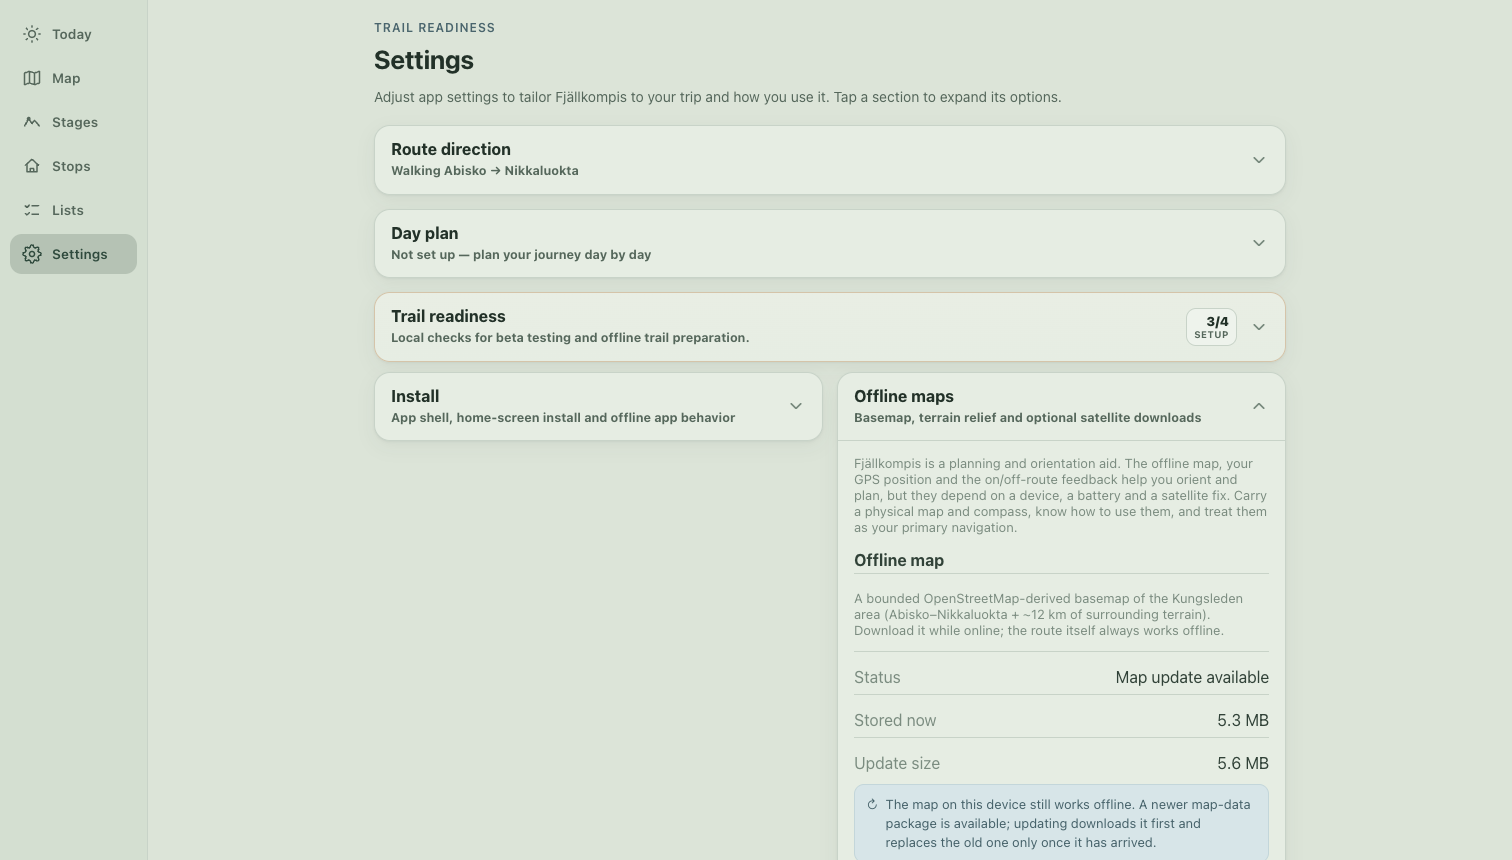
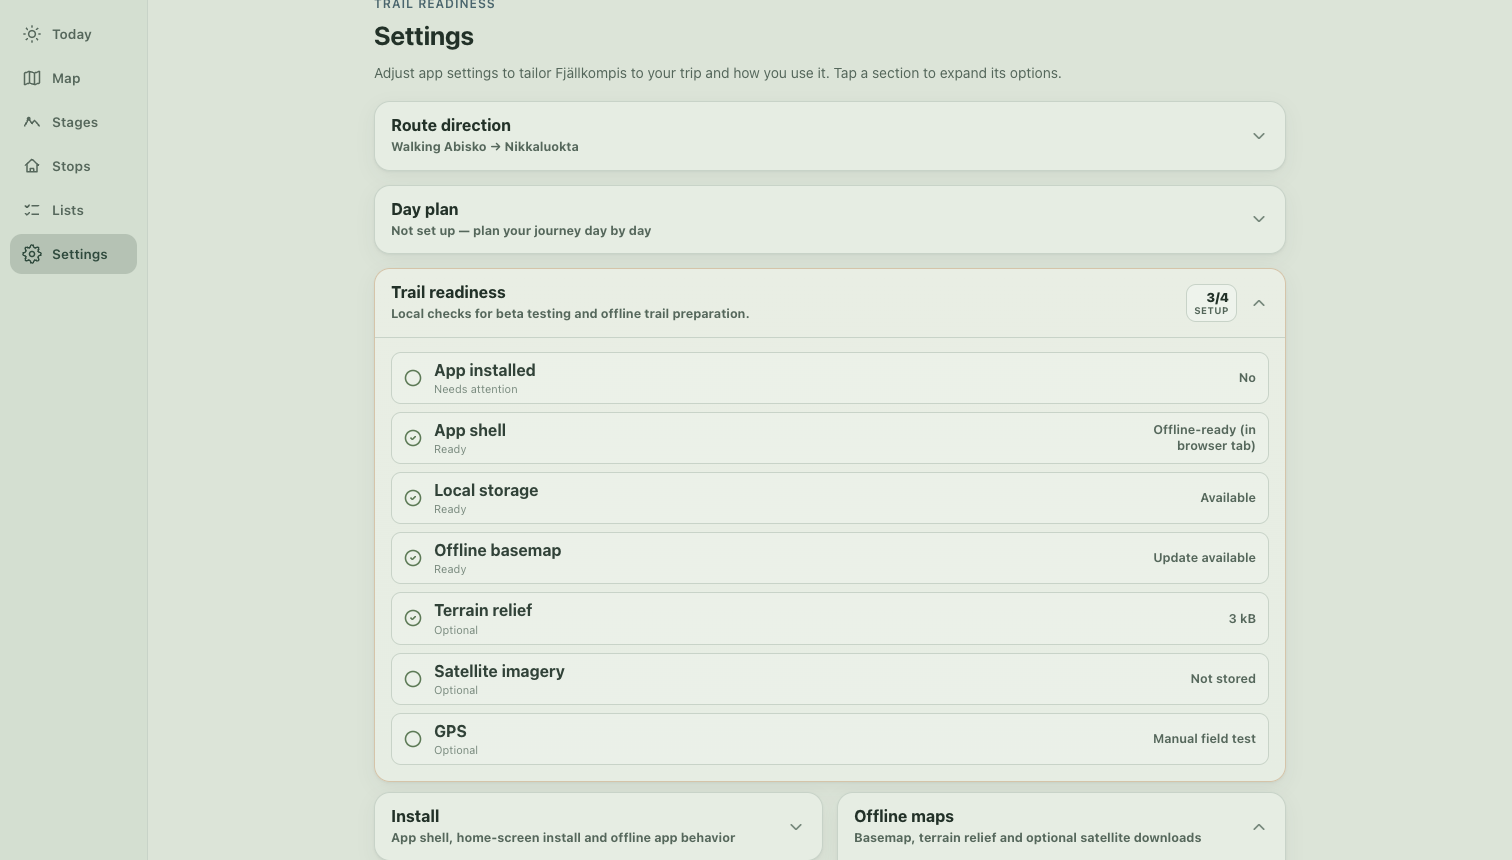
Record the corrected state model and the invalid/remove runtime evidence
Rewrites the evidence note: a wrong-size entry in the current cache is no
longer described as a usable legacy archive. Adds scenario E (a deliberately
seeded 1,234-byte current-cache entry, alone and alongside a valid v1) and
scenario F (remove, from a legacy-only install and from a current install,
asserted against cache inventories).

diff --git a/docs/pr-evidence/2026-08-map-refinement-ii/vector-archive-revision/README.md b/docs/pr-evidence/2026-08-map-refinement-ii/vector-archive-revision/README.md
@@ -27,7 +27,8 @@ Two smaller findings, both measured here rather than reasoned about:
 - **`caches.open()` creates a missing cache.** A status probe against a new
   cache name would have conjured an empty `…-map-v2` on every device that
   merely opened Settings — an inventory entry that reads like a stored
-  archive. The probe now asks `has()` first.
+  archive. The probe now asks `has()` first, and removal deletes caches by
+  **name** rather than opening one to delete an entry inside it (see F below).
 - **`cache: 'no-store'` does not get past a service worker.** The Workbox
   `CacheFirst` route matches the bare archive path, so a download request was
   answered from Cache Storage without reaching the server. Measured: with a
@@ -50,19 +51,38 @@ VECTOR_ARCHIVE_REVISION       { id: 'kungsleden-vector-2026-08-overview-corridor
 ```
 
 A cached response is **current** only if it is in the current cache *and* its
-byte length equals `bytes`. Anything else that exists is **legacy**: usable
-offline, explicitly not current, replaced only by a successful download.
-`sha256` is recorded provenance, checked against the committed file in tests,
-never computed at runtime.
+byte length equals `bytes`. `sha256` is recorded provenance, checked against
+the committed file in tests, never computed at runtime.
+
+"Not current" then splits in two, and the difference is the whole point:
+
+| state | what it is | `downloaded` | blob handed to PMTiles |
+| --- | --- | --- | --- |
+| `current` | exact-size entry in `…-map-v2` | ✅ | v2 |
+| `legacy` | a real entry in declared `…-map-v1` — a revision we shipped, so it parses | ✅ | v1 |
+| `invalid` | a wrong-size entry in `…-map-v2`, no legacy to fall back on | ❌ | **none** |
+| `absent` | nothing cached | ❌ | none |
+
+An arbitrary wrong-size response in the current cache is **not** a usable
+legacy map. Nothing vouches for those bytes — truncated, damaged or seeded by
+hand — and handing them to PMTiles would crash the map. So `invalid` reports
+`downloaded: false`, resolves to a null cache so `getArchiveBlob()` returns
+null, and Settings calls it what it is.
+
+Precedence when both exist: a declared legacy archive **beats** an invalid
+current entry. A device holding a 1,234-byte v2 alongside a valid v1 keeps
+working from v1 and is offered the replacement as an ordinary update; the
+invalid blob is never read.
 
 Terrain, contours and satellite declare no revision and no legacy caches, so
-their status stays existence-only and their cache identities are untouched.
+their status stays existence-only, `invalid` cannot occur for them, and their
+cache identities are untouched.
 
 ## Runtime evidence
 
-Real Chrome, one **disposable profile per scenario**, headless, against
-`vite preview` on this branch's production build. Reproduce with
-`capture-runtime-evidence.mjs`; full output in `runtime-evidence.json`.
+Real Chrome, one **disposable profile per scenario** (A–F, six profiles),
+headless, against `vite preview` on this branch's production build. Reproduce
+with `capture-runtime-evidence.mjs`; full output in `runtime-evidence.json`.
 
 ### A. Simulated pre-PR #104 install
 
@@ -78,6 +98,7 @@ sentinel entries in the terrain, contour and satellite caches.
 | basemap source | `blob:` — **zero** requests for `maps/kungsleden.pmtiles` |
 | anything deleted by opening the app | ❌ none — inventory byte-identical |
 | empty current-revision cache conjured | ❌ none |
+| readiness row | `Offline basemap ǀ Ready ǀ Update available` — ready, not up to date |
 | console errors | 0 |
 
 `A-legacy-settings-1512x860.png`, `A-legacy-map-1512x860.png`
@@ -122,6 +143,63 @@ Desktop 1512×860 and phone 390×844. Both download straight into
 
 `D-fresh-desktop-{before,after}-1512x860.png`,
 `D-fresh-phone-{before,after}-390x844.png`
+
+### E. A deliberately corrupt 1,234-byte entry in the current cache
+
+Seeded straight into `fjallkompis-offline-map-v2` under the archive URL — the
+shape a truncated write or a hand-seeded blob would take.
+
+**E1 — corrupt entry alone.** The proof that matters is what the Map did *not*
+do:
+
+| check | result |
+| --- | --- |
+| PMTiles parse errors ("wrong magic number") | **0** — the blob was never opened |
+| console errors | **0** |
+| what the Map used instead | the online range path — 7 × `206 maps/kungsleden.pmtiles` |
+| Settings status | `Map data needs repair` |
+| sizes shown | `Stored now 1 kB` · `Expected size 5.6 MB` |
+| action offered | `Download map data again` (+ `Remove from device`) |
+| described as stored/working anywhere | ❌ never |
+| readiness row | `Offline basemap ǀ Needs attention ǀ Needs repair` (unchecked — the score drops, honestly) |
+| anything deleted by opening the app | ❌ none; the 1,234 bytes are still there, just unused |
+
+**E2 — the same corrupt entry, plus a valid v1.** The legacy archive wins:
+
+| check | result |
+| --- | --- |
+| Settings status | `Map update available` — not "needs repair" |
+| readiness row | `Offline basemap ǀ Ready ǀ Update available` |
+| basemap source | the v1 blob; the 1,234-byte v2 entry is still present and still unread |
+| PMTiles parse errors | **0** |
+
+`E1-invalid-settings-1512x860.png`, `E1-invalid-map-1512x860.png`,
+`E2-invalid-plus-legacy-settings-1512x860.png`,
+`E2-invalid-plus-legacy-map-1512x860.png`
+
+### F. Remove — cache inventories, not just entries
+
+**F1 — removing a legacy-only install.** The regression this fixes: removal
+used to `open()` the current cache unconditionally, which *creates* it.
+
+```
+before  map-v1 · terrain-v1 · contours-v1 · satellite-v1 · workbox-precache
+after   terrain-v1 · contours-v1 · satellite-v1 · workbox-precache
+```
+
+No `fjallkompis-offline-map-v1`, and **no empty `fjallkompis-offline-map-v2`**.
+
+**F2 — download the current revision, then remove it.**
+
+```
+after download  map-v2 (5 904 598) · terrain-v1 · contours-v1 · satellite-v1 · workbox-precache
+after remove    terrain-v1 · contours-v1 · satellite-v1 · workbox-precache
+```
+
+Terrain, contour and satellite caches survive both removals untouched;
+0 console errors.
+
+`F1-after-removing-legacy-1512x860.png`
 
 ## Cache Storage inventory, before → after
 
